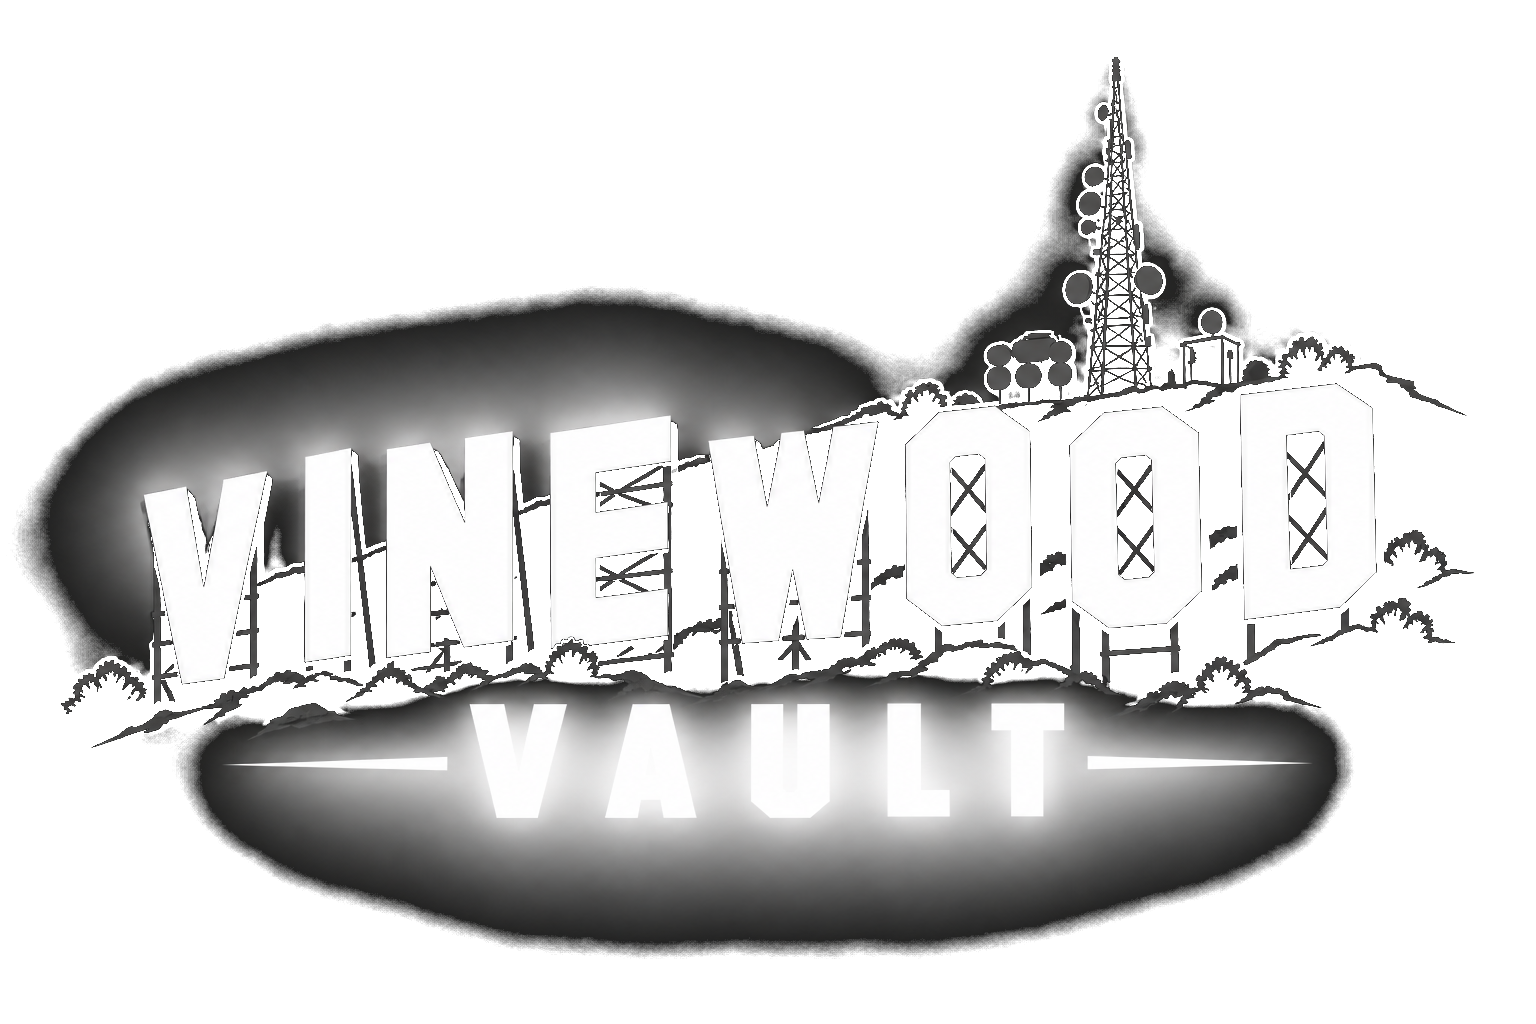
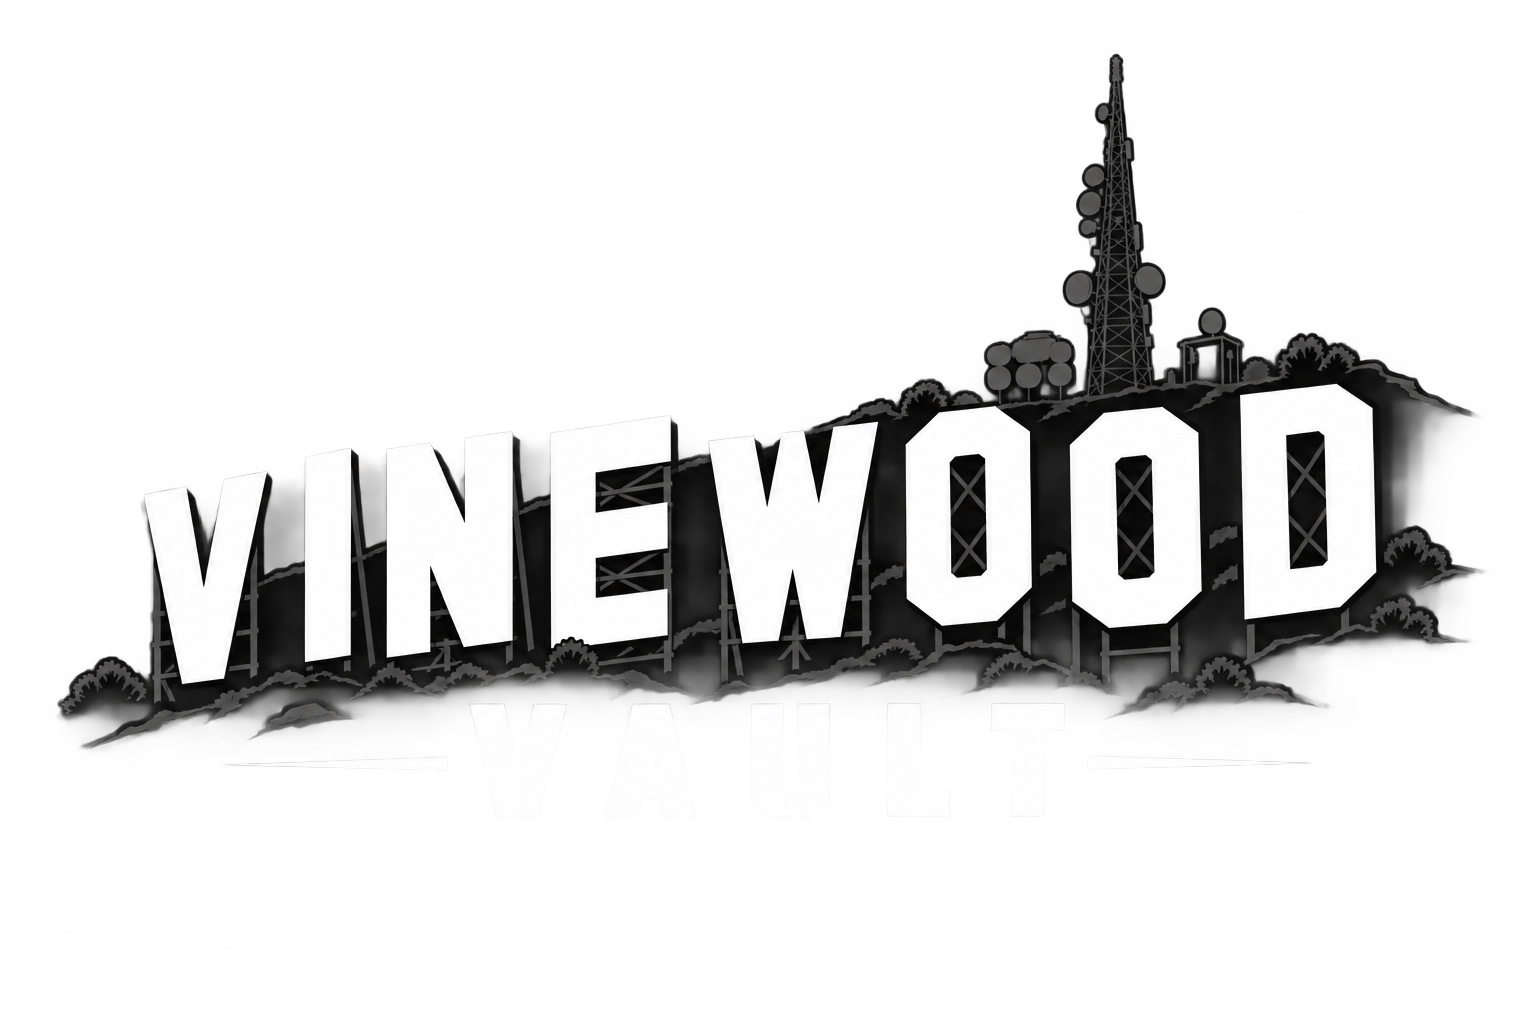
Wordmark: drop the blend/colorkey, pure-black page bg so the sign PNG sits seamlessly

diff --git a/style.css b/style.css
@@ -1,7 +1,7 @@
 @import url('https://fonts.googleapis.com/css2?family=Anton&display=swap');
 
 :root {
-  --bg: #100D0A;
+  --bg: #000000;
   --bg-2: #1a1512;
   --raised: #282521;
   --text: #F2ECDD;
@@ -111,9 +111,6 @@ p { margin: 12px 0; }
   height: auto;
   display: block;
   margin: 0 auto;
-  /* the wordmark PNG has a soft dark glow around it; screen over the
-     near-black page drops it while keeping the white sign crisp */
-  mix-blend-mode: screen;
 }
 .hero .tag {
   color: var(--gold); font-size: 11px; letter-spacing: 4px;
